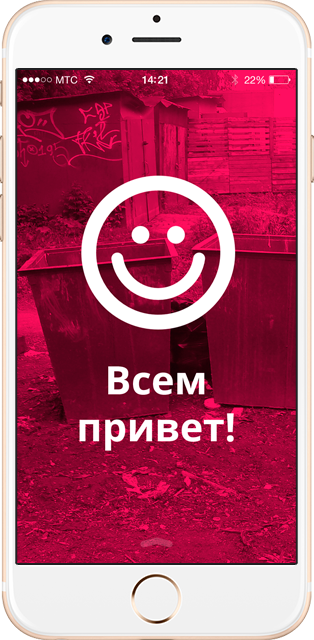
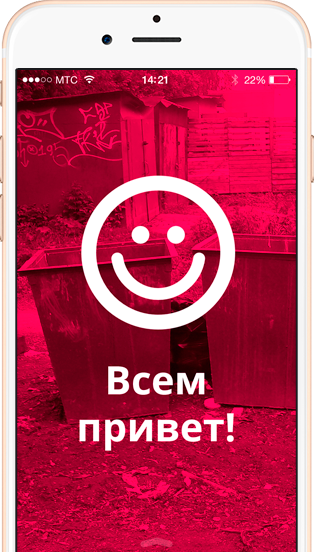
Добавлена адаптация графики

diff --git a/photo.html b/photo.html
@@ -16,7 +16,7 @@
               <button class="main-nav__toggle" type="button"></button>
               </div>
                   <ul class="main-nav__items">
-                      <li class="main-nav__item"><a class="main-nav__link" href="">Главная</a></li>
+                      <li class="main-nav__item"><a class="main-nav__link" href="index.html">Главная</a></li>
                       <li class="main-nav__item"><a class="main-nav__link" href="photo.html">Фотографии</a></li>
                       <li class="main-nav__item"><a class="main-nav__link" href="form.html">Конкурс</a></li>
                       <li class="main-nav__item"><a class="main-nav__link" href="https://htmlacademy.ru/">HTML Academy</a></li>
@@ -32,7 +32,11 @@
           
           <div class="user-gallery__user-post  user-gallery__user-post--position">
               <div class="user-gallery__user-top">Панорама дня</div>
-              <img class="user-gallery__user-foto  user-gallery__user-foto--top" src="img/panorama-mobile@1x.jpg" alt="user-foto">
+                  <picture>
+                     <source media="(min-width: 1024px)" srcset="img/panorama-desktop@1x.jpg 1x, img/panorama-desktop@2x.jpg 2x">
+                     <source media="(min-width: 768px)" srcset="img/panorama-tablet@1x.jpg 1x, img/panorama-tablet@2x.jpg 2x">
+                     <img class="user-gallery__user-foto  user-gallery__user-foto--top" src="img/panorama-mobile@1x.jpg" srcset="img/panorama-mobile@2x.jpg 2x" alt="user-foto" >
+                </picture>
               <div class="user-gallery__holder-top">
                   <div class="user-gallery__items">
                       <div class="user-gallery__user-name user-gallery__items--inine">Анна</div> <div class="user-gallery__time-writing user-gallery__items--inine">(5 минут назад)</div>
@@ -52,7 +56,11 @@
           <div class="user-gallery__wrapper  container">
           <div class="user-gallery__user-post-wrapper">
           <div class="user-gallery__user-post">
-              <img class="user-gallery__user-foto" src="img/photo-1-mobile@1x.jpg" alt="user-foto">
+               <picture>
+                     <source media="(min-width: 1024px)" srcset="img/photo-1-desktop@1x.jpg 1x, img/photo-1-desktop@2x.jpg 2x">
+                     <source media="(min-width: 768px)" srcset="img/photo-1-tablet@1x.jpg 1x, img/photo-1-tablet@2x.jpg 2x">
+                     <img class="user-gallery__user-foto" src="img/photo-1-mobile@1x.jpg" srcset="img/photo-1-mobile@2x.jpg 2x" alt="user-foto" >
+                </picture>
                  <div class="user-gallery__items">
                   <div class="user-gallery__user-name  user-gallery__items--inine">Левон</div> <div class="user-gallery__time-writing  user-gallery__items--inine">(5 часов назад)</div>
                   <div class="user-gallery__user-text">
@@ -66,7 +74,11 @@
           </div>
           
           <div class="user-gallery__user-post">
-              <img class="user-gallery__user-foto" src="img/photo-2-mobile@1x.jpg" alt="user-foto">
+              <picture>
+                     <source media="(min-width: 1024px)" srcset="img/photo-2-desktop@1x.jpg 1x, img/photo-2-desktop@2x.jpg 2x">
+                     <source media="(min-width: 768px)" srcset="img/photo-2-tablet@1x.jpg 1x, img/photo-2-tablet@2x.jpg 2x">
+                     <img class="user-gallery__user-foto" src="img/photo-2-mobile@1x.jpg" srcset="img/photo-2-mobile@2x.jpg 2x" alt="user-foto" >
+                </picture>
                  <div class="user-gallery__items">
                   <div class="user-gallery__user-name  user-gallery__items--inine">Антон</div> <div class="user-gallery__time-writing  user-gallery__items--inine">(12 часов назад)</div>
                   <div class="user-gallery__user-text">
@@ -79,7 +91,11 @@
           </div>
           
           <div class="user-gallery__user-post">
-              <img class="user-gallery__user-foto" src="img/photo-3-mobile@1x.jpg" alt="user-foto">
+              <picture>
+                     <source media="(min-width: 1024px)" srcset="img/photo-3-desktop@1x.jpg 1x, img/photo-3-desktop@2x.jpg 2x">
+                     <source media="(min-width: 768px)" srcset="img/photo-3-tablet@1x.jpg 1x, img/photo-3-tablet@2x.jpg 2x">
+                     <img class="user-gallery__user-foto" src="img/photo-3-mobile@1x.jpg" srcset="img/photo-3-mobile@2x.jpg 2x" alt="user-foto" >
+                </picture>
                  <div class="user-gallery__items">
                   <div class="user-gallery__user-name  user-gallery__items--inine">Борис</div> <div class="user-gallery__time-writing  user-gallery__items--inine">(20 часов назад)</div>
                   <div class="user-gallery__user-text">
@@ -92,7 +108,11 @@
           </div>
           
           <div class="user-gallery__user-post">
-              <img class="user-gallery__user-foto" src="img/photo-4-mobile@1x.jpg" alt="user-foto">
+                <picture>
+                     <source media="(min-width: 1024px)" srcset="img/photo-4-desktop@1x.jpg 1x, img/photo-4-desktop@2x.jpg 2x">
+                     <source media="(min-width: 768px)" srcset="img/photo-4-tablet@1x.jpg 1x, img/photo-4-tablet@2x.jpg 2x">
+                     <img class="user-gallery__user-foto" src="img/photo-4-mobile@1x.jpg" srcset="img/photo-4-mobile@2x.jpg 2x" alt="user-foto" >
+                </picture>
                  <div class="user-gallery__items">
                   <div class="user-gallery__user-name  user-gallery__items--inine">Сергей</div> <div class="user-gallery__time-writing  user-gallery__items--inine">(25 часов назад)</div>
                   <div class="user-gallery__user-text">
@@ -105,7 +125,11 @@
           </div>
           
           <div class="user-gallery__user-post">
-              <img class="user-gallery__user-foto" src="img/photo-5-mobile@1x.jpg" alt="user-foto">
+               <picture>
+                     <source media="(min-width: 1024px)" srcset="img/photo-5-desktop@1x.jpg 1x, img/photo-5-desktop@2x.jpg 2x">
+                     <source media="(min-width: 768px)" srcset="img/photo-5-tablet@1x.jpg 1x, img/photo-5-tablet@2x.jpg 2x">
+                     <img class="user-gallery__user-foto" src="img/photo-5-mobile@1x.jpg" srcset="img/photo-5-mobile@2x.jpg 2x" alt="user-foto" >
+                </picture>
                  <div class="user-gallery__items">
                   <div class="user-gallery__user-name  user-gallery__items--inine">Максим</div> <div class="user-gallery__time-writing  user-gallery__items--inine">(40 часов назад)</div>
                   <div class="user-gallery__user-text">
@@ -118,7 +142,11 @@
           </div>
           
           <div class="user-gallery__user-post">
-              <img class="user-gallery__user-foto" src="img/photo-6-mobile@1x.jpg" alt="user-foto">
+              <picture>
+                     <source media="(min-width: 1024px)" srcset="img/photo-6-desktop@1x.jpg 1x, img/photo-6-desktop@2x.jpg 2x">
+                     <source media="(min-width: 768px)" srcset="img/photo-6-tablet@1x.jpg 1x, img/photo-6-tablet@2x.jpg 2x">
+                     <img class="user-gallery__user-foto" src="img/photo-6-mobile@1x.jpg" srcset="img/photo-6-mobile@2x.jpg 2x" alt="user-foto" >
+                </picture>
                  <div class="user-gallery__items">
                   <div class="user-gallery__user-name  user-gallery__items--inine">Надежда</div> <div class="user-gallery__time-writing  user-gallery__items--inine">(45 часов назад)</div>
                   <div class="user-gallery__user-text">
@@ -140,7 +168,11 @@
       <section class="photo-editor">
          <div class="photo-editor__wrapper    container">
           <div class="photo-editor__picture">
-              <img src="img/photo-7-mobile@1x.jpg" alt="Foto">
+               <picture>
+                     <source media="(min-width: 1024px)" srcset="img/photo-7-desktop@1x.jpg 1x, img/photo-7-desktop@2x.jpg 2x">
+                     <source media="(min-width: 768px)" srcset="img/photo-7-tablet@1x.jpg 1x, img/photo-7-tablet@2x.jpg 2x">
+                     <img class="user-gallery__user-foto" src="img/photo-7-mobile@1x.jpg" srcset="img/photo-7-mobile@2x.jpg 2x" alt="user-foto" >
+                </picture>
           </div>
             <div class="photo-editor__items-wrapper">
              <div class="photo-editor__items">

diff --git a/index.html b/index.html
@@ -27,7 +27,11 @@
       <section class="download-page">
           <div class="download-page__background-image">
              <div class="download-page__position-holder  container">
-              <img class="download-page__image" src="img/iphone-hand-mobile@1x.png" alt="Pink image">
+             <picture>
+                 <source media="(min-width: 1024px)" srcset="img/iphone-hand-desktop@1x.png 1x, img/iphone-hand-desktop@2x.png 2x">
+                 <source media="(min-width: 768px)" srcset="img/iphone-hand-tablet@1x.png 1x, img/iphone-hand-tablet@2x.png 2x">
+                 <img src="img/iphone-hand-mobile@1x.png" srcset="img/iphone-hand-mobile@2x.png 2x" class="download-page__image">
+             </picture>
           
           <div class="download-page__holder">
               <div class="download-page__title">Взгляните на жизнь иначе!</div>
@@ -61,7 +65,10 @@
               <div class="features__items-holder  container">
                   <div class="features__item">
                      <div class="features__image  features__image--display">
-                         <img src="img/pink-index-mobile_03.png" alt="Pink image">
+                         <picture>
+                             <source media="(min-width: 1024px)" srcset="img/iphone-screen-1-desktop@1x.png 1x, img/iphone-screen-1-desktop@2x.png 2x">
+                             <img src="img/iphone-screen-1-tablet@1x.png" srcset="img/iphone-screen-1-tablet@2x.png 2x" alt="Pink image">
+                         </picture>
                      </div>
                      <div class="features__item-holder">
                          <b class="features__item-caption">Поднимает настроение</b>
@@ -74,7 +81,10 @@
                   </div>
                   <div class="features__item">
                       <div class="features__image  features__image--display">
-                          <img src="img/pink-index-mobile_03.png" alt="Pink image">
+                          <picture>
+                             <source media="(min-width: 1024px)" srcset="img/iphone-screen-2-desktop@1x.png 1x, img/iphone-screen-2-desktop@2x.png 2x">
+                             <img src="img/iphone-screen-2-tablet@1x.png" srcset="iphone-screen-2-tablet@2x.png 2x" alt="Pink image">
+                         </picture>
                       </div>
                       <div class="features__item-holder  features__item-holder--margin">
                           <b class="features__item-caption">Меняет мир вокруг</b>
@@ -87,7 +97,11 @@
                   </div>
                   <div class="features__item  features__item--invert">
                       <div class="features__image  features__image--position">
-                          <img src="img/pink-index-mobile_03.png" alt="Pink image">
+                         <picture>
+                             <source media="(min-width: 1024px)" srcset="img/iphone-screen-3-desktop@1x.png 1x, img/iphone-screen-3-desktop@2x.png 2x">
+                             <source media="(min-width: 768px)" srcset="img/iphone-screen-3-tablet@1x.png 1x, img/iphone-screen-3-tablet@2x.png 2x">
+                             <img src="img/pink-index-mobile_03.png" srcset="img/iphone-screen-mobile@2x.png 2x" alt="Pink image">
+                         </picture>
                       </div>
                       <div class="features__item-holder">
                           <b class="features__item-caption">Заводит новых друзей</b>
@@ -272,7 +286,11 @@
          </div> 
        </div>
          <div class="contacts__map">
-             <img src="img/mobile-map.png" alt="Карта проезда">
+             <picture>
+                 <source media="(min-width: 1024px)" srcset="img/bg-map-desktop@1x.jpg 1x, img/bg-map-desktop@2x.jpg 2x">
+                 <source media="(min-width: 768px)" srcset="img/bg-map-tablet@1x.jpg 1x, img/bg-map-tablet@2x.jpg 2x">
+                 <img src="img/bg-map-mobile@1x.png" srcset="img/bg-map-mobile@2x.jpg 2x" alt="Pink image">
+            </picture>
          </div>
      </section>
      

diff --git a/sass/components/user-gallery.scss b/sass/components/user-gallery.scss
@@ -12,8 +12,11 @@
     padding-left: 45px;
     padding-right: 45px;
     background-size: cover;
+    
+    @media (min-resolution: 144dpi),(min-resolution: 1.5dppx)  {
+      background-image: url(../../img/bg-back-mobile@2x.jpg);
+    }
 }
-
 
 .user-gallery__text-preview {
     text-align: center;
@@ -126,12 +129,17 @@
 
 @media (min-width: $tablet) {
     .user-gallery__title {
+        background-image: url(../../img/bg-back-tablet@1x.jpg);
         font-size: 50px;
         padding-top: 70px;
         padding-bottom: 140px;
         padding-left: 175px;
         padding-right: 170px;  
         background-position: center;
+        
+        @media (min-resolution: 144dpi),(min-resolution: 1.5dppx)  {
+          background-image: url(../../img/bg-back-tablet@2x.jpg);
+    }
     }
     .user-gallery__text-preview {
         line-height: 1.6em;
@@ -209,11 +217,16 @@
 
 @media (min-width: $desk) {
     .user-gallery__title {
+        background-image: url(../../img/bg-back-desktop@1x.jpg);
         padding-top: 170px;
         padding-bottom: 104px;
         padding-left: 280px;
         padding-right: 280px; 
         background-size: 160%;  
+        
+        @media (min-resolution: 144dpi),(min-resolution: 1.5dppx)  {
+          background-image: url(../../img/bg-back-desktop@2x.jpg);
+    }
    }
     
     .user-gallery__text-preview {

diff --git a/sass/components/download-page.scss b/sass/components/download-page.scss
@@ -10,6 +10,10 @@
     background: url(../../img/bg-back-mobile@1x.jpg) no-repeat bottom;  
     background-position: 50% -76px;
     background-size: 710px;
+    
+    @media (min-resolution: 144dpi),(min-resolution: 1.5dppx)  {
+      background-image: url(../../img/bg-back-mobile@2x.jpg);
+    }
 }
 
 .download-page__image {
@@ -86,8 +90,13 @@
 
 @media (min-width: $tablet) {
     .download-page__background-image {
-        background-size: cover;
+        background-image: url(../../img/bg-back-tablet@1x.jpg);
+        background-size: 175%;
         background-position: center;
+        
+        @media (min-resolution: 144dpi),(min-resolution: 1.5dppx)  {
+      background-image: url(../../img/bg-back-tablet@2x.jpg);
+    }
     }
     
     .download-page__image {
@@ -137,8 +146,13 @@
 @media (min-width: $desk) {
 
     .download-page__background-image {
-        background-size: 160%;
+        background-image: url(../../img/bg-back-desktop@1x.jpg);
+        background-size: cover;
         padding-top: 106px;
+        
+        @media (min-resolution: 144dpi),(min-resolution: 1.5dppx)  {
+      background-image: url(../../img/bg-back-desktop@2x.jpg);
+    }
     }
     
     .download-page__image {

diff --git a/sass/util/variable.scss b/sass/util/variable.scss
@@ -24,3 +24,24 @@ $ashen:#c6cace;
 
 $dark-ashen:#535e6a;
 /***********/
+
+$retina:(min-resolution: 144dpi),(min-resolution: 1.5dppx);
+
+/*
+
+ .page-header__logo {
+    
+    background-color: #000000;
+    background-image: url("img/bg-header.jpg");
+    background-repeat: no-repeat;
+    background-position: center -9px;
+    
+    @media $retina {
+      background-image: url("img/bg-header@2x.jpg");
+    }
+
+ @media (min-resolution: 144dpi),(min-resolution: 1.5dppx)  {
+      background-image: url(../../img/bg-back-mobile@2x.jpg);
+    }
+  }
+*/

diff --git a/sass/components/contacts.scss b/sass/components/contacts.scss
@@ -44,6 +44,10 @@
     border-top: 32px solid $white;
     border-bottom: 0;
 }
+
+.contacts__map {
+   
+}
 /********************************************/
 
 /***************Tablet ver.******************/

diff --git a/sass/components/features.scss b/sass/components/features.scss
@@ -170,7 +170,7 @@
     .features__image {
         margin-bottom: 50px;
         img {
-            width: 180px;
+            width: 292px;
             height: 300px;
             
              }
